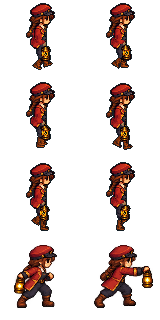
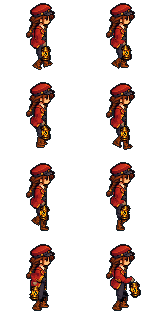
Bake Nell's attacks from the same character rig and skin as her walk

Changed region(s): [[0.5938, 0.75, 0.9688, 0.9688], [0.0938, 0.75, 0.3438, 0.9688]]

diff --git a/src/art/nell-actor.ts b/src/art/nell-actor.ts
@@ -2,14 +2,38 @@ import { NELL_PROPORTIONS, type RigProportions } from './rig-proportions';
 import { type ActorDirection } from '../content/actors';
 import { orient, project, type Point3 } from './actor-space';
 import { renderLayers, type PixelTexture, type SpriteLayer } from './layered-sprite';
-import { referenceRig, type ReferencePose, type WeaponPose } from './reference-rig';
-import { footPoint, REFERENCE_FRAMES, type FootPose } from './walk-cycle';
+import { armToGrip, referenceRig, type ReferencePose, type WeaponPose } from './reference-rig';
+import { ANKLE_HEIGHT, FOOT_HEEL, FOOT_TOE, footPoint, REFERENCE_FRAMES, type FootPose } from './walk-cycle';
 
 export type NellTextures=Record<ActorDirection,PixelTexture>;
 
 /** Nell shares the gait solver, with dimensions registered to her native costume. */
 export const nellPose=(phase:number,config:Readonly<RigProportions>=NELL_PROPORTIONS):ReferencePose=>referenceRig(phase,'lantern',config);
 export const nellFrame=(frame:number,config:Readonly<RigProportions>=NELL_PROPORTIONS)=>nellPose(frame/REFERENCE_FRAMES,config);
+
+export type NellAttackPhase='windup'|'contact';
+
+/** Same costume and rigid skeleton as walking, braced on two flat feet. */
+export function nellAttackPose(phase:NellAttackPhase,config:Readonly<RigProportions>=NELL_PROPORTIONS):ReferencePose {
+  const pose=referenceRig(0,'lantern',config),contact=phase==='contact';
+  pose.hipHeight=config.hipHeight-.8;
+  for(const side of ['left','right'] as const){
+    const leg=pose[side],origin={x:leg.hip.x,y:side==='left'?3:-4,z:0},transform={origin,pitch:0};
+    leg.foot={...transform,heel:footPoint(transform,FOOT_HEEL*config.footScale,0),toe:footPoint(transform,FOOT_TOE*config.footScale,0),contact:'sole'};
+    leg.planted=true;leg.phase=0;leg.hip={...leg.hip,z:pose.hipHeight};leg.ankle=footPoint(leg.foot,0,ANKLE_HEIGHT*config.footScale);
+    const dy=leg.ankle.y,dz=leg.ankle.z-leg.hip.z,d=Math.hypot(dy,dz);
+    if(d>config.legLength*2)throw new RangeError("Legs cannot reach the attack stance.");
+    const bend=Math.sqrt(config.legLength**2-d*d/4);
+    leg.knee={x:leg.hip.x,y:dy/2-dz/d*bend,z:(leg.hip.z+leg.ankle.z)/2+dy/d*bend};
+    const shoulder={x:pose.arms[side].shoulder.x,y:0,z:pose.hipHeight+config.shoulderHeight};
+    const reach=(config.upperArmLength+config.forearmLength)/15,right=side==='right';
+    const grip={x:shoulder.x,y:(right?(contact?12:-5):(contact?-4:4))*reach,
+      z:shoulder.z-(right?(contact?4:7):12)};
+    pose.arms[side]=armToGrip(shoulder,grip,config);
+  }
+  pose.weapon={...pose.weapon!,grip:pose.arms.right.grip,pitch:(contact?8:-8)*Math.PI/180};
+  return pose;
+}
 
 function patch(source:PixelTexture,x:number,y:number,width:number,height:number,accept:(r:number,g:number,b:number)=>boolean):PixelTexture {
   const pixels=new Uint8ClampedArray(width*height*4);
@@ -206,4 +230,4 @@ export function nellLayers(pose:ReferencePose,direction:ActorDirection,textures:
   layers.push(...lantern(pose.weapon!,source,direction));
   return layers;
 }
-export const renderNell=(frame:number,direction:ActorDirection,textures:NellTextures)=>renderLayers(nellLayers(nellFrame(frame),direction,textures),direction);
+export const renderNell=(frame:number,direction:ActorDirection,textures:NellTextures)=>renderLayers(nellLayers(frame<REFERENCE_FRAMES?nellFrame(frame):nellAttackPose(frame===REFERENCE_FRAMES?'windup':'contact'),direction,textures),direction);

diff --git a/tests/nell-rig.test.ts b/tests/nell-rig.test.ts
@@ -1,5 +1,6 @@
+import { project } from '../src/art/actor-space';
 import { expect, it } from 'vitest';
-import { nellPose } from '../src/art/nell-actor';
+import { nellAttackPose, nellPose } from '../src/art/nell-actor';
 import { NELL_PROPORTIONS } from '../src/art/rig-proportions';
 import { REFERENCE_FRAMES } from '../src/art/walk-cycle';
 import { walkFrameDistance, WALK_STRIDE_DISTANCE } from '../src/content/actor-motion';
@@ -32,4 +33,23 @@ it('Nell playback cancels planted-foot travel using her authored stride distance
       expect(contact.y+travel).toBeCloseTo(later.y+travel+.1*walkFrameDistance('nell'),9);
     }
   }
+});
+
+
+it('Nell braces on the same flat feet and thrusts her right-hand lantern forward with rigid bones',()=>{
+  const windup=nellAttackPose('windup'),contact=nellAttackPose('contact');
+  for(const pose of [windup,contact]){
+    for(const side of ['left','right'] as const){
+      const {hip,knee,ankle,foot}=pose[side],arm=pose.arms[side];
+      expect(foot.contact).toBe('sole');expect(foot.heel.z).toBe(0);expect(foot.toe.z).toBe(0);
+      expect(pose[side].planted).toBe(true);expect(foot).toEqual(windup[side].foot);
+      for(const [a,b,length] of [[hip,knee,NELL_PROPORTIONS.legLength],[knee,ankle,NELL_PROPORTIONS.legLength],[arm.shoulder,arm.elbow,NELL_PROPORTIONS.upperArmLength],[arm.elbow,arm.wrist,NELL_PROPORTIONS.forearmLength]] as const)
+        expect(Math.hypot(a.x-b.x,a.y-b.y,a.z-b.z)).toBeCloseTo(length,9);
+    }
+    expect(pose.weapon?.hand).toBe('right');expect(pose.weapon?.grip).toEqual(pose.arms.right.grip);
+    expect(pose.weapon!.grip.x).toBeGreaterThan(0);
+  }
+  expect(windup.arms.right.grip.y).toBeLessThan(0);expect(contact.arms.right.grip.y).toBeGreaterThan(0);
+  expect(project(contact.arms.right.grip,'left').x).toBeLessThan(project(windup.arms.right.grip,'left').x);
+  expect(project(contact.arms.right.grip,'right').x).toBeGreaterThan(project(windup.arms.right.grip,'right').x);
 });

diff --git a/src/art/reference-rig.ts b/src/art/reference-rig.ts
@@ -16,12 +16,18 @@ function arm(side:LegSide,pose:WalkPose,weapon:ReferenceWeapon,config:Readonly<R
   const total=config.upperArmLength+config.forearmLength,scale=total/17;
   const grip={x,y:holding?(weapon==='lantern'?(4+swing)*scale:(6+.6*swing)*scale):(right?1:-1)*5.5*swing*scale,
     z:shoulder.z-total+(holding?(weapon==='lantern'?2.5+config.carryLift:6):1)};
+  return armToGrip(shoulder,grip,config);
+}
+
+/** Rigid two-bone arm solve, shared by gait and authored action poses. */
+export function armToGrip(shoulder:Point3,grip:Point3,config:Readonly<RigProportions>):ArmPose {
+  const x=shoulder.x,total=config.upperArmLength+config.forearmLength;
   const wrist={...grip,z:grip.z+1.6};
-  const dy=wrist.y,dz=wrist.z-shoulder.z,d=Math.hypot(dy,dz);
+  const dy=wrist.y-shoulder.y,dz=wrist.z-shoulder.z,d=Math.hypot(dy,dz);
   if(d>total||d<Math.abs(config.upperArmLength-config.forearmLength))throw new RangeError("Arms cannot reach: adjust arm lengths or carry lift.");
   const along=(config.upperArmLength**2-config.forearmLength**2+d*d)/(2*d),bend=Math.sqrt(Math.max(0,config.upperArmLength**2-along*along));
   // Elbows bend back; the forearm reaches forward to the wrist. Both bones stay rigid.
-  const elbow={x,y:along*dy/d+bend*dz/d,z:shoulder.z+along*dz/d-bend*dy/d};
+  const elbow={x,y:shoulder.y+along*dy/d+bend*dz/d,z:shoulder.z+along*dz/d-bend*dy/d};
   return {shoulder,elbow,wrist,grip};
 }
 

diff --git a/assets/characters/animation.md b/assets/characters/animation.md
@@ -1,10 +1,10 @@
 # Nell and Orrin motion frames
 
-Nell's walk is baked from the accepted layered reference with her original native face, cap, braids and costume pixels attached as a skin. Orrin retains his generated directional walk art. Idle actors and portraits remain unchanged. Each direction has one 160 x 320 PNG page containing eight 80 x 80 frames. Frames 0–5 are a complete six-frame walk: left contact, left support, right passing, right contact, right support, left passing. Frames 6–7 retain the existing native wind-up/contact artwork. Ground anchor remains (40, 68). Neither side view is mirrored; equipment stays in the right hand through every pose.
+Nell's walk and attacks are baked from the accepted layered reference with her original native face, cap, braids and costume pixels attached as a skin. Orrin retains his generated directional walk art. Idle actors and portraits remain unchanged. Each direction has one 160 x 320 PNG page containing eight 80 x 80 frames. Frames 0–5 are a complete six-frame walk: left contact, left support, right passing, right contact, right support, left passing. Frames 6–7 are rigged wind-up/contact poses for Nell and the retained native attack artwork for Orrin. Ground anchor remains (40, 68). Neither side view is mirrored; equipment stays in the right hand through every pose.
 
-`animation-sources.json` records Nell's rig/exporter, Orrin's selected six-pose sources and the original attack sources. Nell's deterministic authoring source is `src/art/nell-actor.ts`: the compact configurable preset uses nine-pixel leg bones, smaller foot geometry and a 24-pixel stride, retaining the shared heel/toe roll. Her own rounded, tapered clothing/glove/boot meshes follow those joints; the mannequin's block geometry is not used. A bent right elbow holds the original native lantern artwork at waist height. The textured native renderer samples source pixels without blending; transparent texels do not hide farther parts. Face, costume and braid pixels come from the four existing native idle sprites, with no new source atlas or downsampling of the face. See `nell-rig.md` for the layer/material recipe.
+`animation-sources.json` records Nell's rig/exporter, Orrin's selected six-pose sources and Orrin's original attack sources. Nell's deterministic authoring source is `src/art/nell-actor.ts`: the compact configurable preset uses nine-pixel leg bones, smaller foot geometry and a 24-pixel stride, retaining the shared heel/toe roll. Her own rounded, tapered clothing/glove/boot meshes follow those joints; the mannequin's block geometry is not used. A bent right elbow holds the original native lantern artwork at waist height. The textured native renderer samples source pixels without blending; transparent texels do not hide farther parts. Face, costume and braid pixels come from the four existing native idle sprites, with no new source atlas or downsampling of the face. See `nell-rig.md` for the layer/material recipe.
 
-Run `node scripts/export-nell-animation.mjs` to rebuild Nell's four native pages from the rig and idle skins. It requires the existing development dependencies plus Python/Pillow and preserves the final native attack row verbatim. The Animation workshop's **Nell** skin uses the same geometry, textures and renderer, with independently visible/exportable body, limb and weapon layers. Gameplay consumes only the baked PNGs.
+Run `node scripts/export-nell-animation.mjs` to rebuild Nell's four native pages from the rig and idle skins. It requires the existing development dependencies plus Python/Pillow and renders all eight poses without reading an older animation page. The Animation workshop's **Nell** skin uses the same geometry, textures and renderer, with independently visible/exportable body, limb and weapon layers. Gameplay consumes only the baked PNGs.
 
 For Orrin, run `python3 scripts/character-walk-guides.py /path/to/references` to reproduce the generation guides, then `python3 scripts/import-character-animation.py /path/to/generated_images` to repeat his native export. It removes low-alpha backdrop haze, isolates the silhouette, uses one scale per direction and fixed cap registration, samples without blending or palette reduction, and removes detached fragments. It retains the final attack row and does not overwrite Nell's rigged walk. `walk-prompts.json` retains the original generation briefs. Source sheets stay outside git; each committed page is below 53 KB.
 
@@ -14,7 +14,9 @@ The shared actor frame player animates exploration leaders/followers, staged cut
 
 The Vite Sprites workshop shares the same pages and frame sequence, with pause and frame stepping. Idle sprites, portraits, character rules and combat damage are unchanged. `tests/e2e/actor-motion.spec.ts` covers directions, native cropped pixels, tactical paths, both heroes' attacks and interruption. These detailed checks remain outside default CI.
 
-## Original attack-source prompts
+## Historical generated attack-source prompts
+
+Nell now uses the layered attack rig; the original Nell generation briefs below are historical. Orrin retains his existing attack art.
 
 ### Nell poses
 

diff --git a/AGENTS.md b/AGENTS.md
@@ -36,7 +36,7 @@ Normal CI runs rule/content tests, the production build and the small `@ci` brow
 
 All five playable characters have front/left/right/back actors in `public/art/`, registered by `src/content/actors.ts`. Keep native 80 x 80 dimensions and the shared ground anchor at (40, 68). Use the same character identity and costume for their 128 x 128 portraits. The Vite-only Sprites workshop (`?dev=sprites`) reviews this art without writing saves or builds; keep review code out of production. Artwork prompt briefs and export details live in `assets/characters/prompts.md`.
 
-Nell and Orrin have six-frame walk cycles and two retained attack poses in `public/art/animation/`, with eight native 80 x 80 frames per small directional page. Keep their idle actors and portraits intact. Nell's walk is baked from the accepted layered reference, using native face/costume skins and 9-pixel leg bones; run `node scripts/export-nell-animation.mjs` to reproduce its four small pages and canonical 80 x 80 skins. Animation offers a Nell skin with the same editable layers; the model/textures stay dev-only. Keep its prepared RGB pixels unchanged and binary alpha consistent between browser and exporter. Orrin retains his generated walk. The shared frame player serves exploration, followers, cutscenes and tactical paths; keep gait tied to distance traveled and preserve it through cells and turns. Nell advances 24 pixels per cycle; Orrin retains 60. Never mirror profiles or rescale a frame at runtime. The lantern and steam lance stay in the anatomical right hand throughout all six steps: viewer left in front, viewer right in back, far arm in left profile and near arm in right profile. Attacks show wind-up/contact/recovery, with damage visuals and player sounds at contact. Battle restarts and forced outcomes must cancel old presentation callbacks. Capture retaliation before round-end flag resets. Sprites offers all six walk phases, playback, pause and frame stepping; review remains dev-only. See `assets/characters/animation.md` for the source manifest and authoring recipe.
+Nell and Orrin have six-frame walk cycles and two attack poses in `public/art/animation/`, with eight native 80 x 80 frames per small directional page. Keep their idle actors and portraits intact. Nell's walk and attacks are baked from the accepted layered reference, using native face/costume skins and 9-pixel leg bones; run `node scripts/export-nell-animation.mjs` to reproduce its four small pages and canonical 80 x 80 skins. Animation offers a Nell skin with the same editable layers; the model/textures stay dev-only. Keep its prepared RGB pixels unchanged and binary alpha consistent between browser and exporter. Orrin retains his generated walk and attack art. Nell's attack wind-up/contact use the same costume geometry, two planted flat feet, rigid arms and registered right-hand lantern; regenerate all eight frames without loading the previous page. Preserve the accepted six walk poses when changing attacks. The shared frame player serves exploration, followers, cutscenes and tactical paths; keep gait tied to distance traveled and preserve it through cells and turns. Nell advances 24 pixels per cycle; Orrin retains 60. Never mirror profiles or rescale a frame at runtime. The lantern and steam lance stay in the anatomical right hand throughout all six steps: viewer left in front, viewer right in back, far arm in left profile and near arm in right profile. Attacks show wind-up/contact/recovery, with damage visuals and player sounds at contact. Battle restarts and forced outcomes must cancel old presentation callbacks. Capture retaliation before round-end flag resets. Sprites offers all six walk phases, playback, pause and frame stepping; review remains dev-only. See `assets/characters/animation.md` for the source manifest and authoring recipe.
 
 Chapter One uses real 24 x 24 tiles, with editable Tiled JSON under `src/content/chapter-one/maps/` and small shared native tile pages. Read `docs/tile-maps.md` before changing its layouts. Tile properties drive collision; map object layers own interactions, named arrivals and initial scene casts. Use story-flag layers for scenery changes. Keep the four tactical floors clear of scenery and preserve all map/interaction/checkpoint IDs. Each map's `safeArrival` supports restoring valid current-format saves whose cells a layout edit covers or crops: use the nearest connected floor and preserve all progress/resources. Do not restore its removed wholesale backgrounds. Export large authoring sheets into real small image tiles/pages before any upload or commit: Chapter One pages are lossless PNG/WebP at most 192 × 192 pixels and 128 KB each; other changed raster images must be at most 128 KB. Never upload a large source sheet or base64 fragments of it. Run `npm run check:art-upload` after staging and before publishing. Later chapters retain their current native scenery until converted.
 

diff --git a/assets/characters/nell-rig.md b/assets/characters/nell-rig.md
@@ -12,7 +12,7 @@ The lantern uses the original per-view native artwork, with a registered source 
 
 Open `?dev=animation` and choose **Nell** to inspect the actual skin with joint/foot guides, frame stepping and layer hide/solo controls. Expand **Proportions / native pixels** to adjust her measurements; head/torso size controls are disabled for this native skin. Edits are session-only and pose exports include the complete configuration. **Reset proportions** restores her compact preset. Nell uses her lantern preset; the mannequin retains Unarmed and Orrin lance options. The skin, source textures and authoring renderer stay dev-only. Native frame/cycle exports reflect the selected layers; pose JSON identifies the Nell skin and its right-hand attachment.
 
-Run `node scripts/export-nell-animation.mjs` to bake all four six-frame walks into `public/art/animation/nell-*.png`. The exporter uses Vite's development transform and Python/Pillow, keeps the existing attack row intact, and writes only four small 160 x 320 pages. Builds consume those pages without running the authoring tools. Re-running the exporter must produce identical PNG bytes. Idle actors, portrait and Orrin's pages remain unchanged.
+Run `node scripts/export-nell-animation.mjs` to bake all four eight-frame walk/attack pages into `public/art/animation/nell-*.png`. The exporter uses Vite's development transform and Python/Pillow, renders all six walks and both attacks from source, and writes only four small 160 x 320 pages. Builds consume those pages without running the authoring tools. Re-running the exporter must produce identical PNG bytes. Idle actors, portrait and Orrin's pages remain unchanged.
 
 `src/content/actor-motion.ts` owns the production stride contract: Nell's cycle spans 24 native pixels, matching her fixed heel/toe contacts; Orrin retains 60 pixels. Keep the authoring stride and runtime distance in agreement when changing the gait.
 
@@ -21,3 +21,6 @@ Nell has full overall thighs through the knee, substantial wider boot shafts and
 The jacket includes registered native side-panel spans in addition to the central bib/torso crop. These preserve the directional lapels, lower sides and hem without including idle hands or lantern pixels. Front panel geometry widens toward the hem in native row bands. Back panels include the shoulder joins as well as the lower flanks. All panels belong to the `torso` layer and move with the same hip offset; profile coat depth covers the pelvis while the near arm can cover the coat. Do not narrow the jacket to the central rectangle when changing limb proportions.
 
 The rear-left jacket mask follows row-by-row coat boundaries through the waist and hem. Do not include the idle trouser outline beside it: that fixed dark edge overpaints the animated hip and looks like an inward bite. Preserve native coat shading and its actual outer outline.
+
+
+`nellAttackPose` reuses the accepted costume layers and arm solver for a two-footed lantern thrust. The wind-up draws the anatomical right grip back; contact extends it forward. Both feet remain flat in the same braced stance, all four limb bones retain their configured lengths, and the lantern hangs from the same registered right grip with a small pitch change. Head, costume materials, trouser geometry and outline style are shared with walking. Existing 140 ms wind-up/contact and idle recovery timing remain unchanged. Review **Attack** in Sprites for all four directions; Animation continues to author the walk. The exporter regenerates the attack row as well, so it never depends on the retired generated Nell attack sheet.
